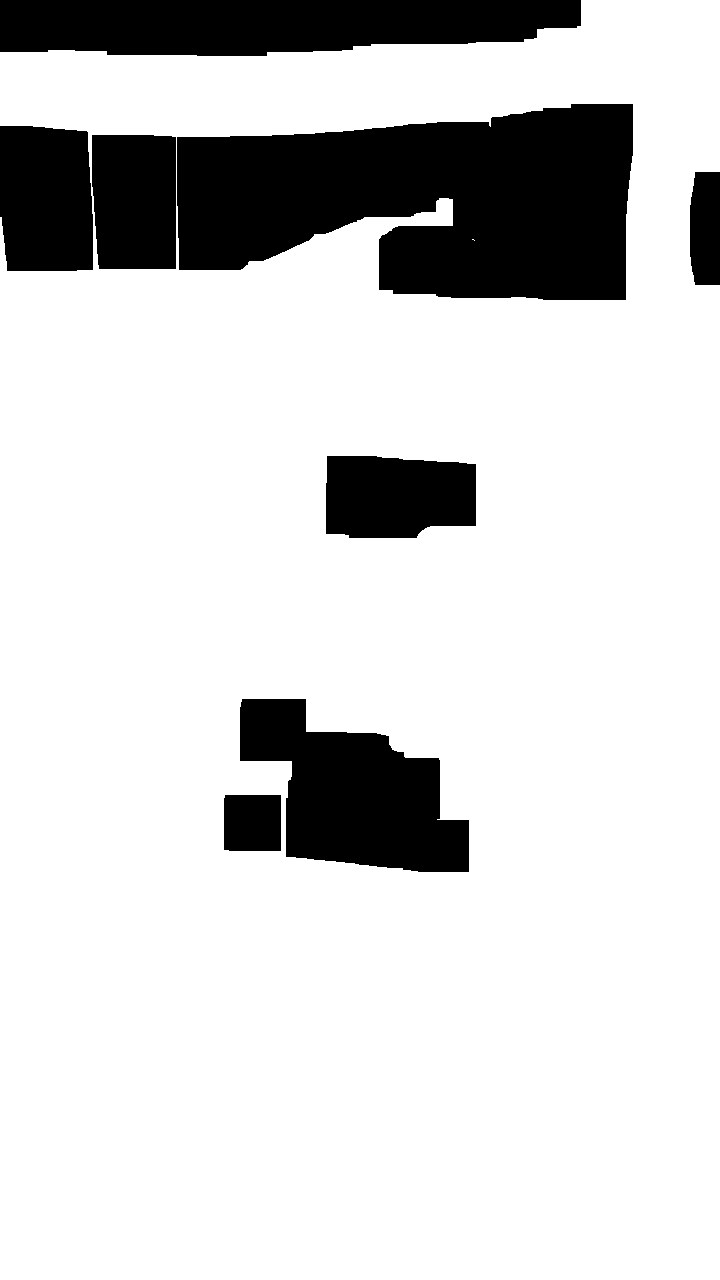
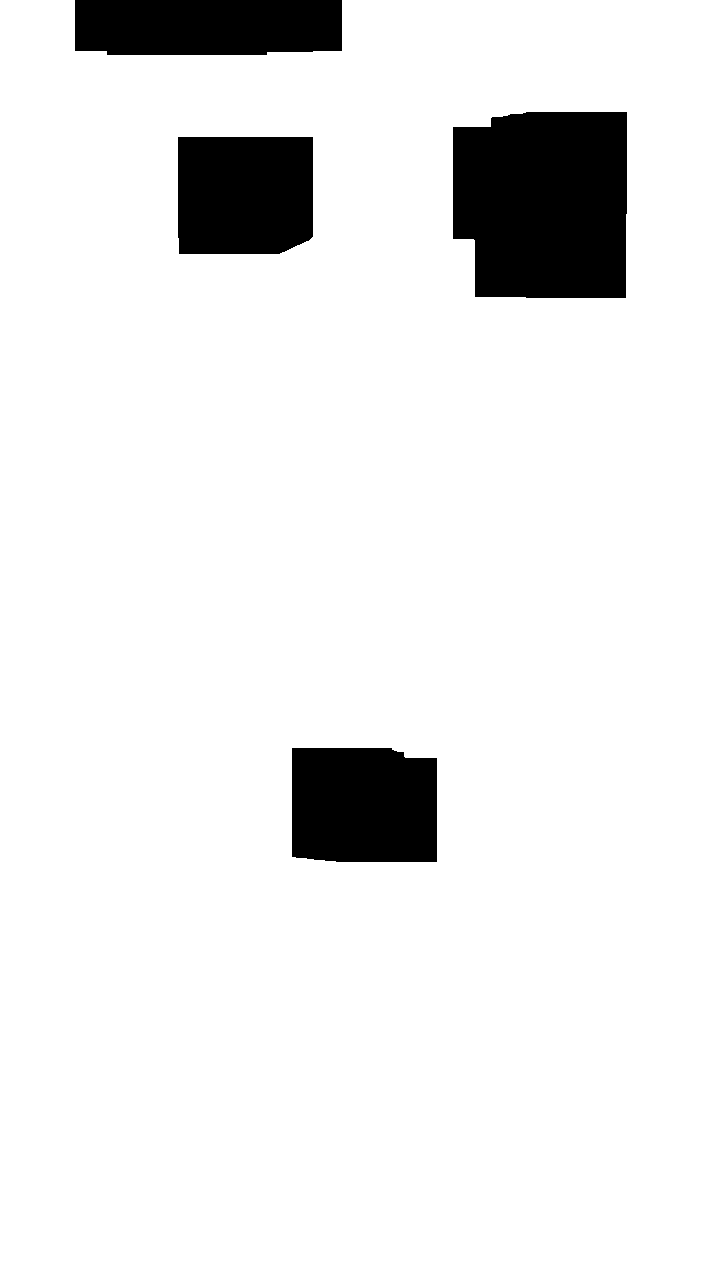
masks created

diff --git a/prj.labs/lab04/lab04.cpp b/prj.labs/lab04/lab04.cpp
@@ -22,7 +22,7 @@ cv::Mat morphology(const cv::Mat img) {
     cv::Mat morph;
     cv::morphologyEx(img, morph, cv::MORPH_OPEN, getStructuringElement(cv::MORPH_RECT, cv::Size(50, 50)));
     cv::dilate(img, morph, getStructuringElement(cv::MORPH_RECT, cv::Size(25, 25)));
-    cv::morphologyEx(img, morph, cv::MORPH_CLOSE, getStructuringElement(cv::MORPH_RECT, cv::Size(50, 50)));
+    cv::morphologyEx(img, morph, cv::MORPH_CLOSE, getStructuringElement(cv::MORPH_RECT, cv::Size(100, 100)));
     return morph;
 }
 
@@ -32,8 +32,9 @@ void imageProcessing(cv::Mat img_png, const std::string SAVEPATH) {
     cv::Mat morph = morphology(binarized);
 
     cv::Mat labeled;
+    cv::Mat stat, centroids;
 
-    cv::connectedComponents(morph, labeled);
+    cv::connectedComponentsWithStats(morph, labeled, stat, centroids);
 
     logs += SAVEPATH + "img_bgr.png" + '\n';
 
@@ -44,7 +45,7 @@ void imageProcessing(cv::Mat img_png, const std::string SAVEPATH) {
     imwrite(SAVEPATH + "labeled.png", labeled);
 }
 
-// Sorry, I know it's a bad manner but I don't want to look up docs for this...
+// Sorry, I know it's a bad manner but I don't want to look up for docs for this...
 std::vector<char> chars = { '0', '1', '2', '3', '4', '5', '6', '7', '8', '9' };
 char charIt(int number) {
     return chars.at(number);
